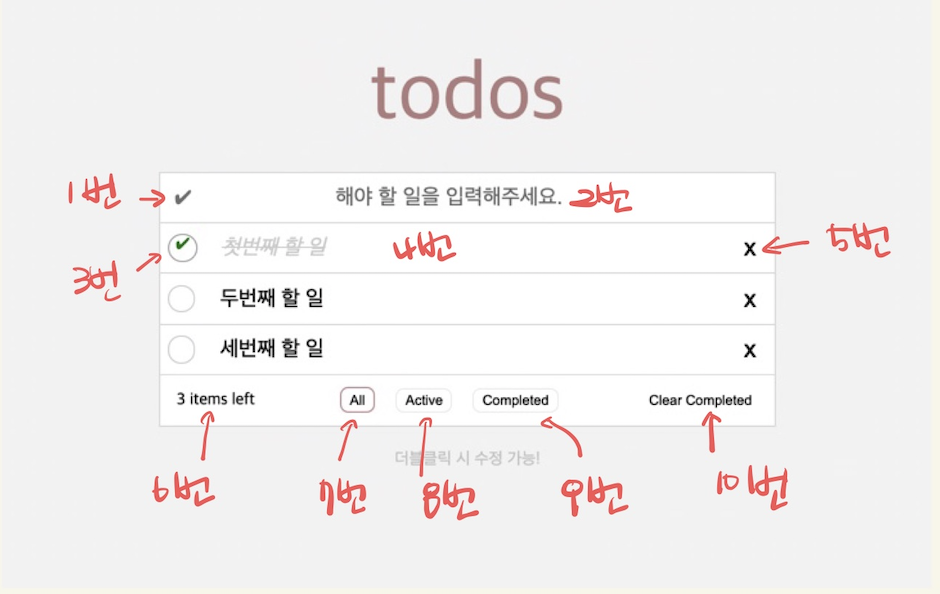
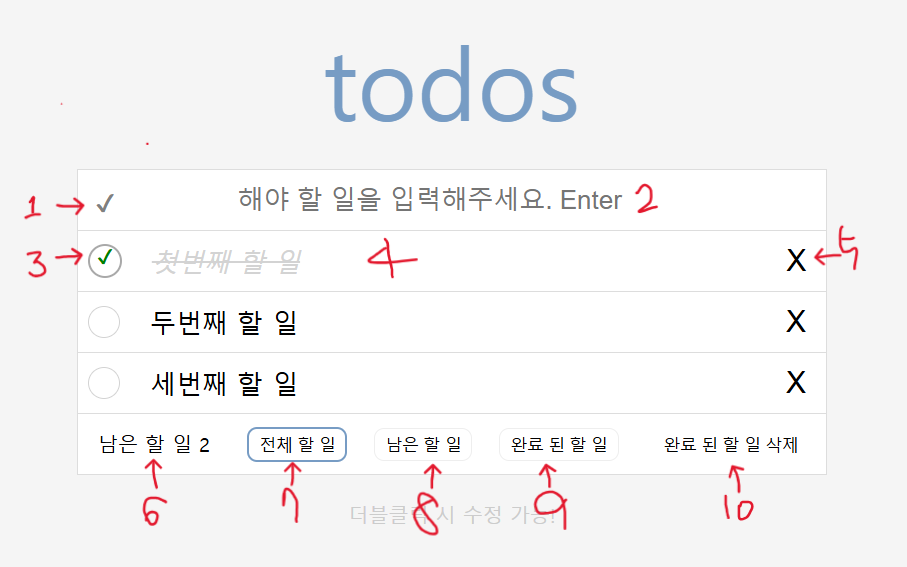
build: 이미지정리 및 오탈자 정리

diff --git a/_posts/2024-12-06-todo-vanilla.md b/_posts/2024-12-06-todo-vanilla.md
@@ -472,7 +472,7 @@ const appendTodos = (text) => {
 ```
 {: file='todo.js'}
 
-newId 변수는 새롭게 저장되는 할 일의 id값이며, ++연상자를 통해 1씩 증가시킴으로써 id값이 중복되지 않도록 해줍니다. newTodos는 새롭게 저장될 todos 배열로 getAlltodos()함수를 통해 이전 todos 배열을 가져온 후, 새롭게 추가된 할 일을 concat()을 통해 newTodo에 저장합니다. concat()을 사용하는 이유는 concat()은 기존 todos배열에 아무런 영향을 주지 않고 todos배열을 복사한 값에 추가한 할일을 더해 반환해주기 때문입니다. 이렇게 반환 된 newTodos를 setTodos()라는 함수로 기존 todos 배열을 변경시켜줍니다.
+newId 변수는 새롭게 저장되는 할 일의 id값이며, ++연산자를 통해 1씩 증가시킴으로써 id값이 중복되지 않도록 해줍니다. newTodos는 새롭게 저장될 todos 배열로 getAlltodos()함수를 통해 이전 todos 배열을 가져온 후, 새롭게 추가된 할 일을 concat()을 통해 newTodo에 저장합니다. concat()을 사용하는 이유는 concat()은 기존 todos배열에 아무런 영향을 주지 않고 todos배열을 복사한 값에 추가한 할일을 더해 반환해주기 때문입니다. 이렇게 반환 된 newTodos를 setTodos()라는 함수로 기존 todos 배열을 변경시켜줍니다.
 
 concat()말고 다른 방법으로는 스프레드 연산자를 사용해서 위 소스 중 주석과 같이 선언할 수 있습니다.
 
@@ -582,7 +582,7 @@ const completeTodo = (todoId) => {
 ```
 {: file='todo.js'}
 
-체크박스를 ckick하면 completeTodo() 함수가 실행되며, 동작 방식은 삭제 기능과 거의 같습니다. 차이점은 삭제에서는 Array filter()를 사용해서 삭제하고자 하는 할 일을 제외한 배열을 만들었으면, 완료 처리는 Array map()을 사용하여 완료 처리를 하고자 하는 할 일의 isCompleted 값을 토글(true이면 false로, false면 true로) 처리하여 새로운 todos 배열을 저장합니다. 이후 HTML은 paintTodos() 함수를 통해 변경된 todos를 재 렌더링합니다.
+체크박스를 click하면 completeTodo() 함수가 실행되며, 동작 방식은 삭제 기능과 거의 같습니다. 차이점은 삭제에서는 Array filter()를 사용해서 삭제하고자 하는 할 일을 제외한 배열을 만들었으면, 완료 처리는 Array map()을 사용하여 완료 처리를 하고자 하는 할 일의 isCompleted 값을 토글(true이면 false로, false면 true로) 처리하여 새로운 todos 배열을 저장합니다. 이후 HTML은 paintTodos() 함수를 통해 변경된 todos를 재 렌더링합니다.
 
 ## 할 일 수정하기
  1. 더블 클릭 시 수정 모드 전환
@@ -609,7 +609,7 @@ const paintTodos = () => {
 ```
 {: file='todo.js'}
 
-onDbclickTodo() 함수는 두 개의 파라미터를 받습니다. 첫번째 파라미터는 event객체이며, 두번째 파라미터는 할 일의 id입니다. onDbclickTodo() 함수를 통해 새로은 input요소를 만들어 사용자가 수정할 수 있도록 하겠습니다.
+onDbclickTodo() 함수는 두 개의 파라미터를 받습니다. 첫번째 파라미터는 event객체이며, 두번째 파라미터는 할 일의 id입니다. onDbclickTodo() 함수를 통해 새로운 input요소를 만들어 사용자가 수정할 수 있도록 하겠습니다.
 
 ```js
 const onDbclickTodo = (e, todoId) => {
@@ -645,7 +645,7 @@ const onDbclickTodo = (e, todoId) => {
 document.createElement() 함수를 통해 inputEl이라는 input요소를 만들고 inputEl의 value값으로 event객체의 innerText를 넣어줍니다. inputElem의 클래스 네임으로는 'edit-input'이라고 지정합니다. 'edit-input' 클래스 네임을 가지는 요소를 position: absolute로 정의하여 수정하고자 하는 todoItemElem영역을 position을 활용해 완전히 가리도록 스타일링하였습니다.
 
  2. 수정하기
-   - 수정을 위해 만들어준 input요소에서 'Enter'키가 눌리면, 기존의 할 일 내용을 updateTodo() 함수를 통해 수정합니다. updateTodo()는 두개의 파라미터를 받습니다. 첫쨰는 text로 수정될 할 일의 내용이며, 두번쨰는 todoId로 수정 될 할 일의 id입니다.  
+   - 수정을 위해 만들어준 input요소에서 'Enter'키가 눌리면, 기존의 할 일 내용을 updateTodo() 함수를 통해 수정합니다. updateTodo()는 두개의 파라미터를 받습니다. 첫번째는 text로 수정될 할 일의 내용이며, 두번째는 todoId로 수정 될 할 일의 id입니다.  
 
 ```js
 const updateTodo = (text, todoId) => {
@@ -814,17 +814,17 @@ const setLeftItems = () => {
 남은 할 일 개수를 표현하는 setLeftItems()함수는 todos의 배열의 길이와 완료상태가 변할 때 호출되는 함수[ init(), appendTodos(), deleteTodo(), completeTodo(), onClickCompleteAll() ]에 각각 적용해 주도록 합니다. 
 
 ## 하단 필터링 버튼 기능 구현
-투두리스트 하단의 All, Active, Completed, Completed Clear 버튼의 기능을 구현하겠습니다. 각각의 버튼 역할을 다음과 같습니다.
+투두리스트 하단의 전체 할 일, 남은 할 일, 완료 된 할 일, 완료 된 할 일 삭제 버튼의 기능을 구현하겠습니다. 각각의 버튼 역할을 다음과 같습니다.
 
-| filter         | Description                                      |
-| :------------- | :----------------------------------------------- | 
-| All            | 전체 투두리스트를 보여준다                         | 
-| Active         | 완료되지 않은 할 일 리스트를 보여준다               | 
-| Completed      | 완료된 할 일 리스트를 보여준다                     |
-| Completed Clear| 완료된 할 일 리스트를 전체 투두리스트에서 삭제한다   |
+| filter             | Description                                      |
+| :----------------- | :----------------------------------------------- | 
+| 전체 할 일          | 전체 투두리스트를 보여준다                         | 
+| 남은 할 일          | 완료되지 않은 할 일 리스트를 보여준다               | 
+| 완료 된 할 일       | 완료된 할 일 리스트를 보여준다                      |
+| 완료 된 할 일 삭제   | 완료된 할 일 리스트를 전체 투두리스트에서 삭제한다   |
 
  1. 각각의 버튼에 이벤트 리스너 등록하기
-   - 우선 todos.js 파일 상단에 All, Active, Completed, Completed Clear 버튼 요소를 querySelector로 가져옵니다. 그리고 init()함수 안에서 각각의 버튼에 'click'에 대한 이벤트 리스너를 등록해줍니다. All, Active, Completed 버튼에는 onClickShowTodosType()함수를 콜백으로 호출하며, Completed Clear 버튼에는 clearCompletedTodos()함수를 콜백으로 호출합니다.
+   - 우선 todos.js 파일 상단에 전체, 남은, 완료 된, 완료 삭제 버튼 요소를 querySelector로 가져옵니다. 그리고 init()함수 안에서 각각의 버튼에 'click'에 대한 이벤트 리스너를 등록해줍니다. All, Active, Completed 버튼에는 onClickShowTodosType()함수를 콜백으로 호출하며, Completed Clear 버튼에는 clearCompletedTodos()함수를 콜백으로 호출합니다.
 
 ```js
 const showAllBtnElem = document.querySelector('.show-all-btn');	// All 버튼 
